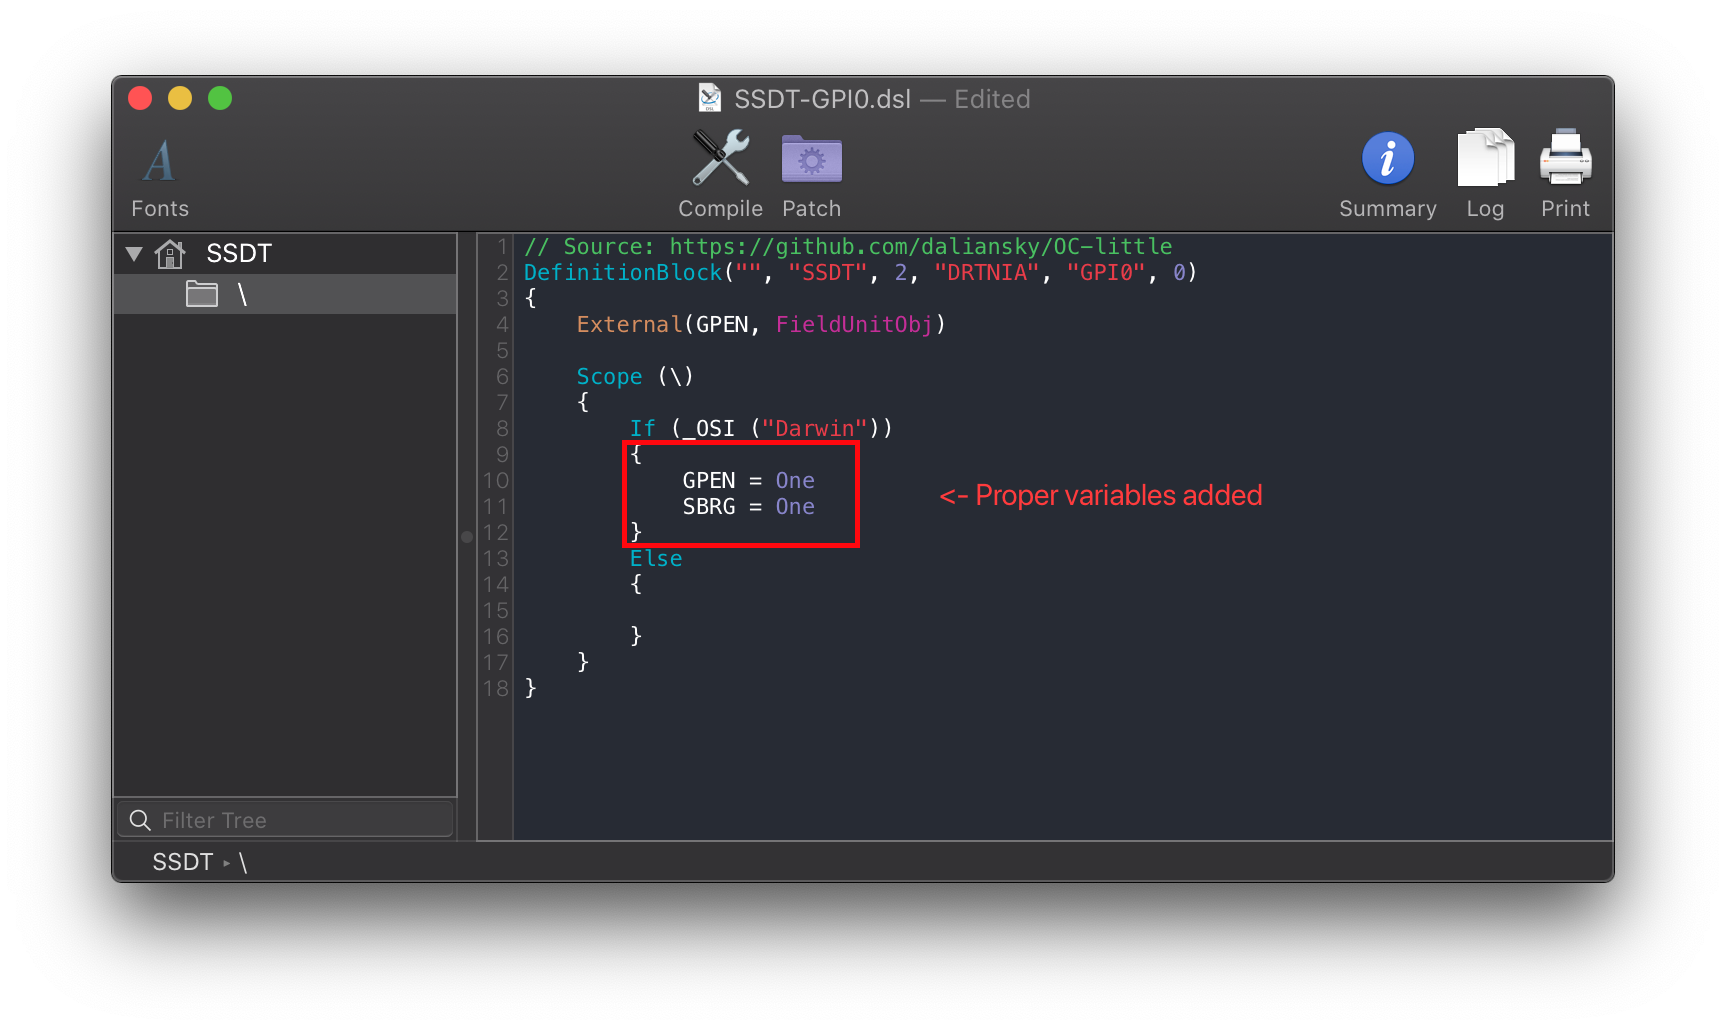
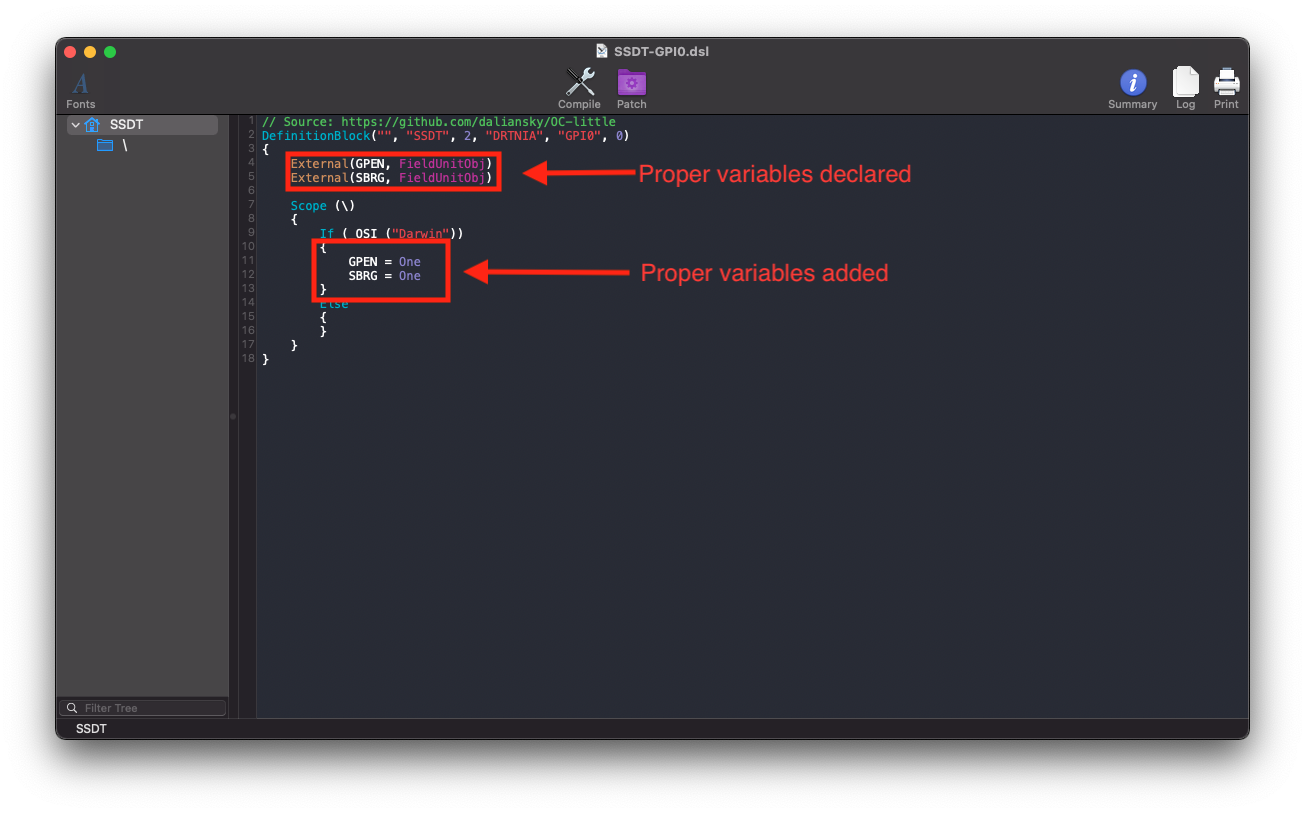
changed ssdt-after and trackpad manual.md

Changed region(s): [[0.0307, 0.0308, 0.9808, 0.9533], [0.3372, 0.3998, 0.5211, 0.5535], [0.5517, 0.4613, 0.7356, 0.492]]

diff --git a/Laptops/trackpad-methods/manual.md b/Laptops/trackpad-methods/manual.md
@@ -61,11 +61,17 @@ Following the example pathing we found, the SSDT should look something like this
 **After**:
 
 ```
-If (_OSI ("Darwin"))
+
+External(GPEN, FieldUnitObj) <- Declare the right variables
+External(SBRG, FieldUnitObj) <- Declare the right variables
+
+Scope (\)
 {
-    GPEN = One <- Change to the right variables
-    SBRG = One <- Change to the right variables
-}
+    If (_OSI ("Darwin"))
+    {
+        GPEN = One <- Change to the right variables
+        SBRG = One <- Change to the right variables
+    }
 ```
 
 ![](../../images/Laptops/trackpad-md/ssdt-after.png)
